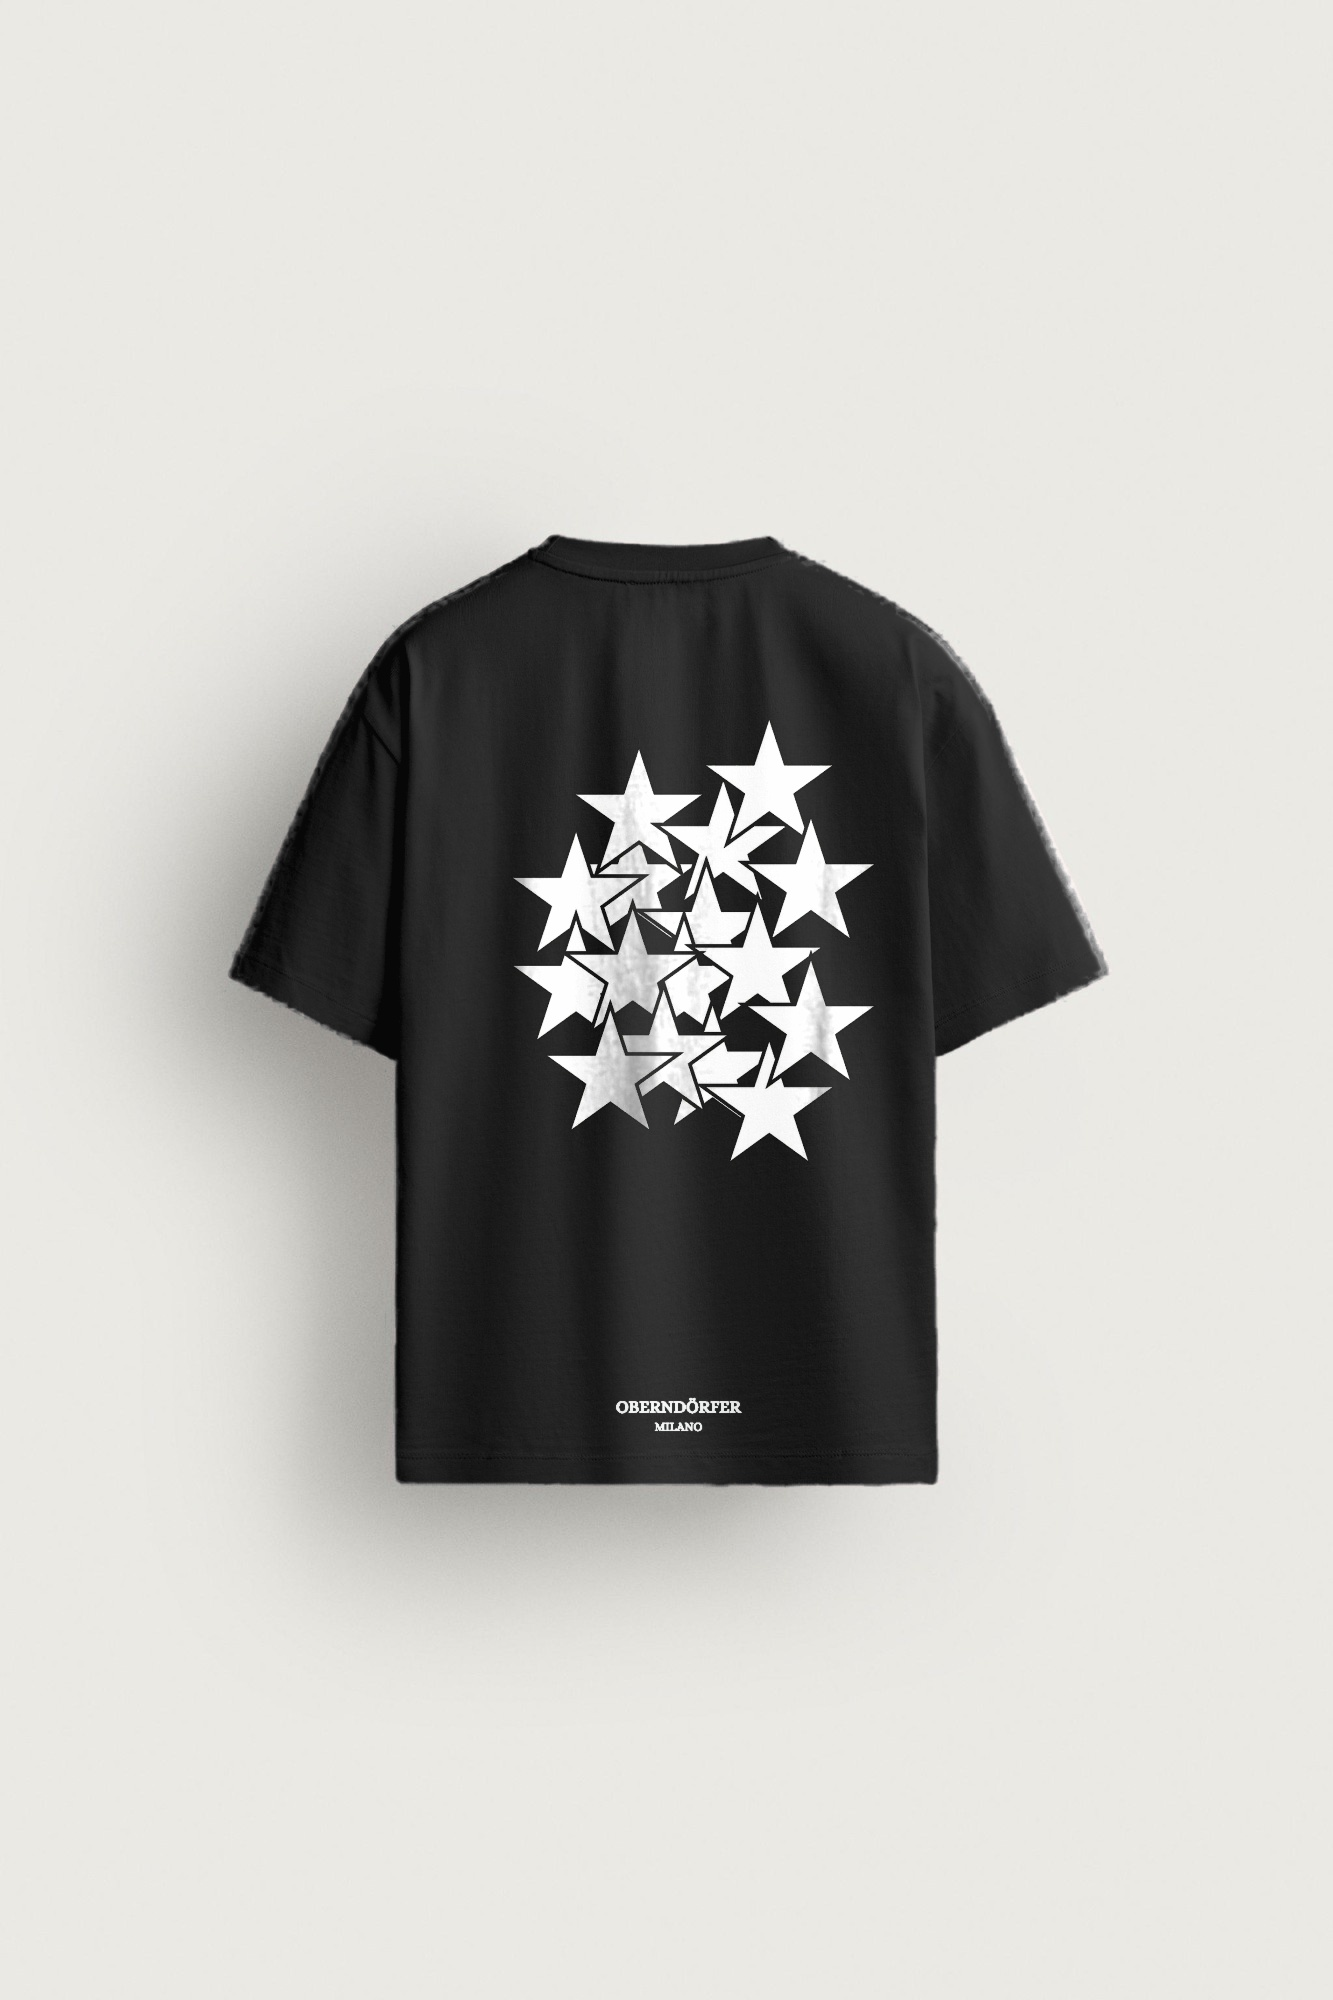
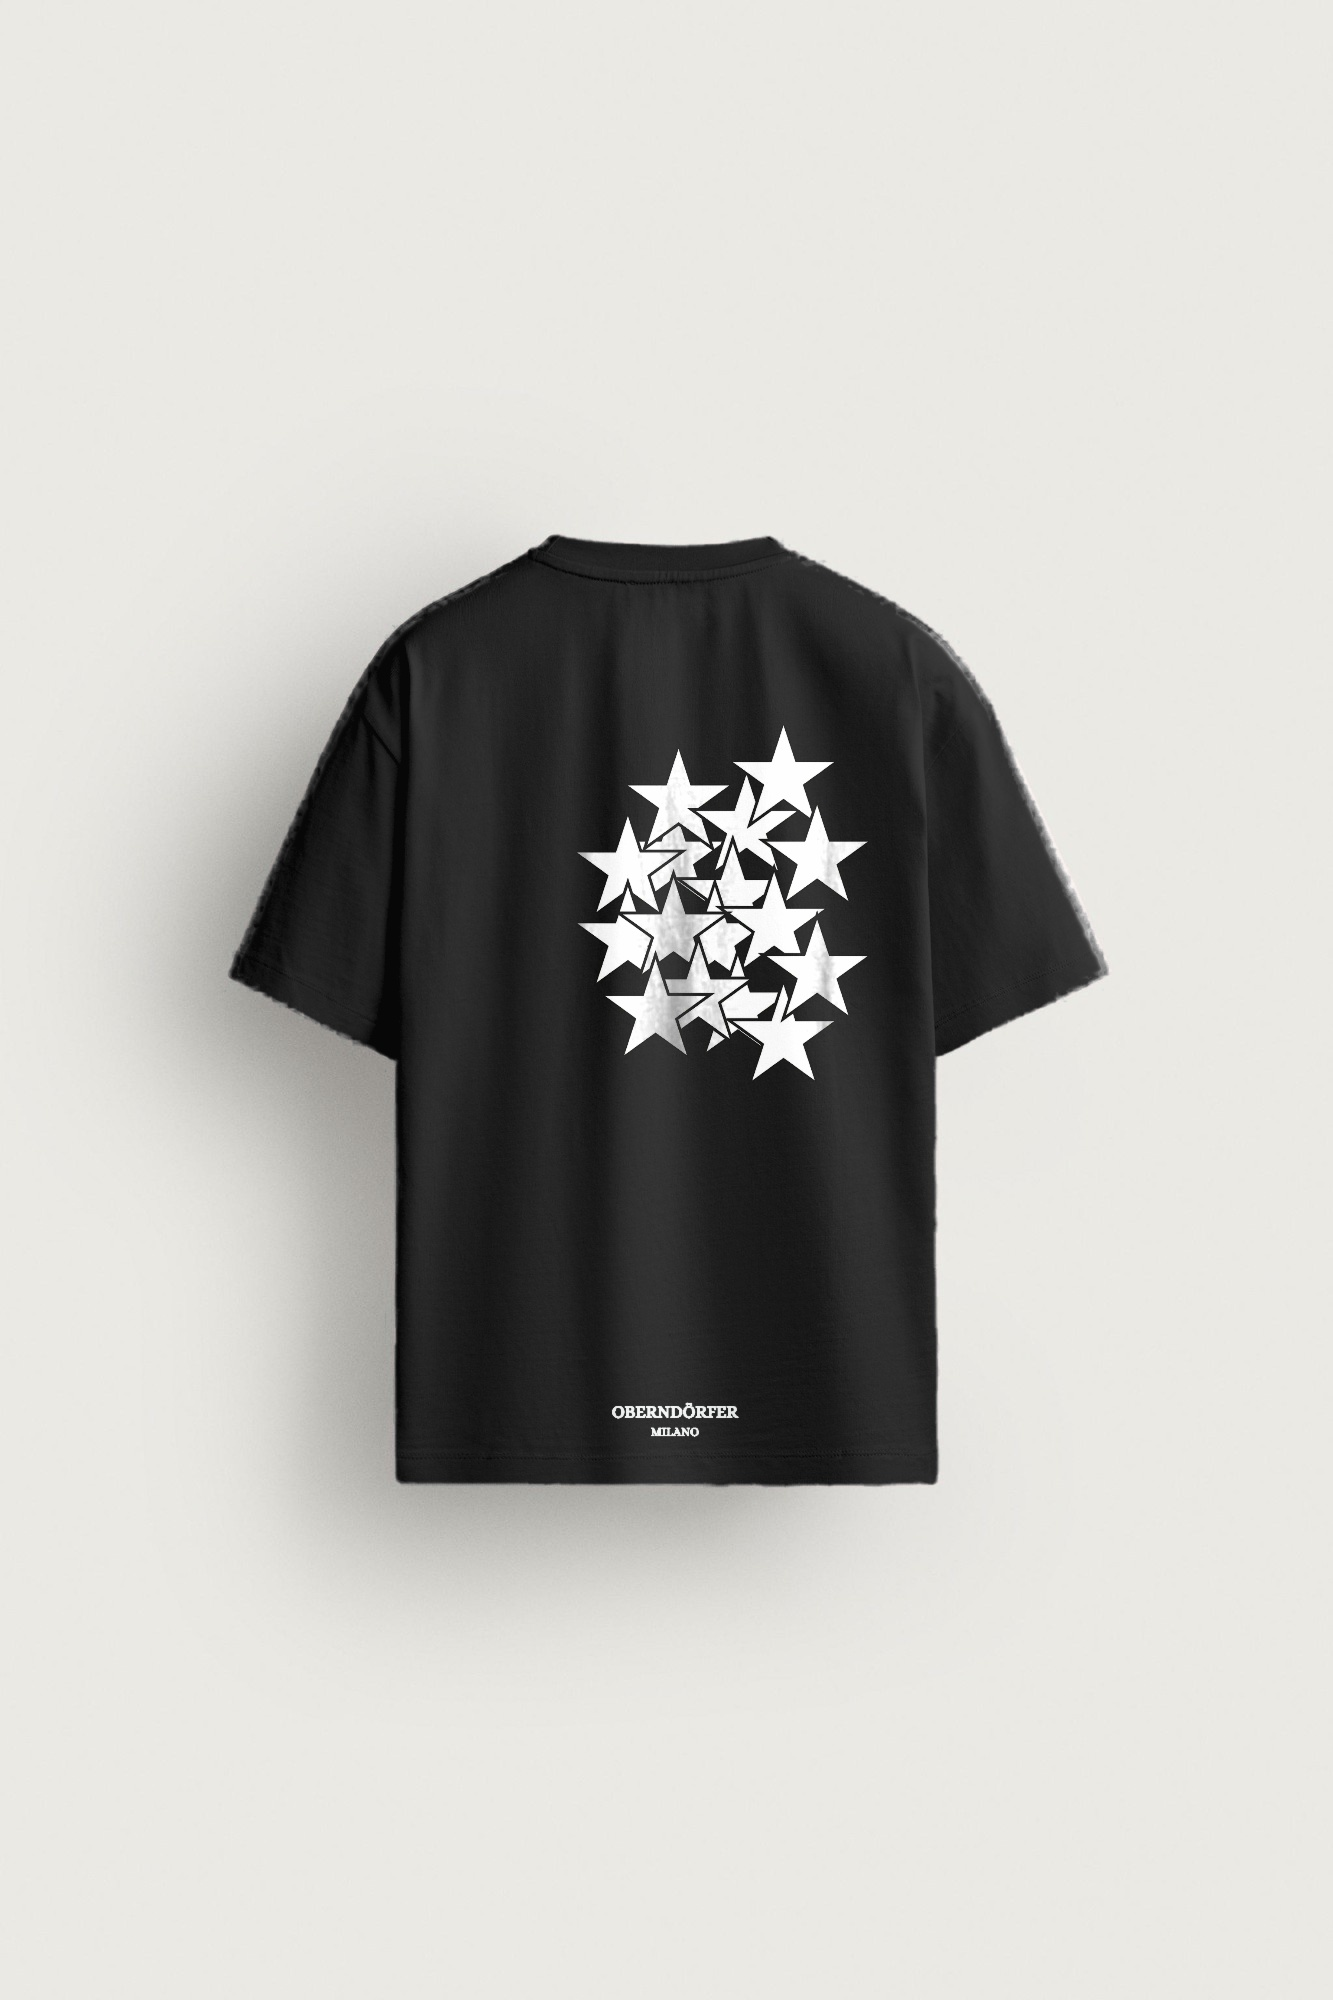
T-shirt photos: place each design as on its own original photo
Claude-Session: https://claude.ai/code/session_01AC1f37guDfHWxkMWq358hb

Changed region(s): [[0.3998, 0.372, 0.6459, 0.589], [0.4614, 0.682, 0.5536, 0.744]]

diff --git a/docs/tshirts/v2.py b/docs/tshirts/v2.py
@@ -62,19 +62,28 @@ def place(a,col,src_bbox,dst_bbox,shape):
     A=cv2.warpAffine(a,M,(shape[1],shape[0]),flags=cv2.INTER_AREA if s<1 else cv2.INTER_LINEAR)
     Cc=cv2.warpAffine(col,M,(shape[1],shape[0]),flags=cv2.INTER_AREA if s<1 else cv2.INTER_LINEAR)
     return A,Cc
+def torso_geom(fill_or_w, top=None, width=None):
+    m=(fill_or_w>0.5).astype(np.uint8); ys,xs=np.where(m>0); y=ys.min(); W=xs.max()-xs.min()
+    yy=int(y+0.62*W*1.08); xx=np.where(m[yy]>0)[0]; return (xx.min()+xx.max())/2, xx.max()-xx.min(), y
+def orig_torso(path):
+    im=cv2.imread(path); fill,_=shirt_geom(im); return torso_geom(fill)
+def to_ref_t(b,src,dst):
+    (tc,tw,ty),(TC,TW,TY)=src,dst; s=TW/tw
+    return tuple(int(v) for v in ((b[0]-tc)*s+TC,(b[1]-ty)*s+TY,(b[2]-tc)*s+TC,(b[3]-ty)*s+TY))
 def to_ref(b,g,G):
     x,y,w,h=g; X,Y,W,H=G; s=W/w
     return tuple(int(v) for v in ((b[0]-x)*s+X+0*(W/2-w*s/2),(b[1]-y)*s+Y,(b[2]-x)*s+X,(b[3]-y)*s+Y))
 def build(white_path, black_path, side, outdir):
     res={}
     aw,cw_,gw=extract(white_path); clw=clusters(aw,gw)
+    tw_white=orig_torso(white_path); tw_black=orig_torso(black_path)
     for color in ['white','black']:
-        img,w=recolor(side,color); G=shirt_bbox(w)
+        img,w=recolor(side,color); G=shirt_bbox(w); TR=torso_geom(w)
         if color=='white': a,col,g,cl=aw,cw_,gw,clw
         else: a,col,g=extract(black_path); cl=clusters(a,g)
         if color=='black' and 'hem' in clw:
             cl=dict(cl); cl.pop('hem',None)
-            b=clw['hem']; dst=to_ref(b,gw,G)
+            b=clw['hem']; dst=to_ref_t(b,tw_white,TR)
             m=np.zeros(aw.shape,np.float32); m[b[1]-3:b[3]+4,b[0]-3:b[2]+4]=1
             A,_=place(aw*m,cw_,b,dst,img.shape); A=cv2.GaussianBlur(A,(0,0),0.4)*w
             med=np.median(img[w>0.98].reshape(-1,3),0)
@@ -82,8 +91,7 @@ def build(white_path, black_path, side, outdir):
             img=img*(1-A[...,None])+ink*A[...,None]
         for name,b in cl.items():
             # destination = where this element sits on the WHITE shirt (mapped to the reference)
-            ref_b=clw.get(name,b); gg=gw if name in clw else g
-            dst=to_ref(ref_b,gg,G)
+            dst=to_ref_t(b, tw_white if color=='white' else tw_black, TR)   # same spot as on its own original photo
             m=np.zeros(a.shape,np.float32); m[b[1]-3:b[3]+4,b[0]-3:b[2]+4]=1
             A,Cc=place(a*m,col,b,dst,img.shape)
             A=cv2.GaussianBlur(A,(0,0),0.4)*w
